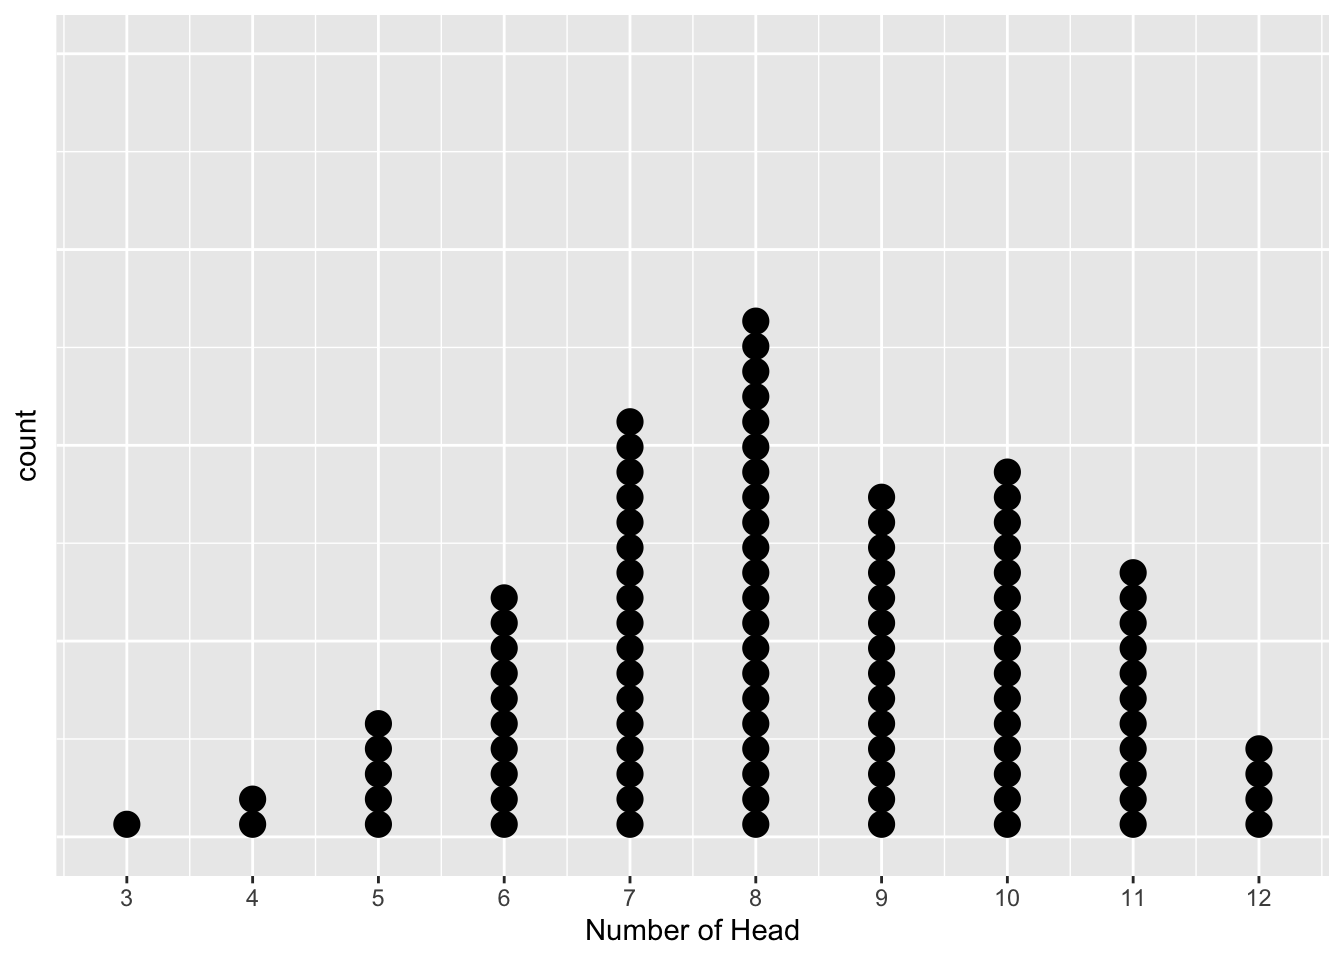
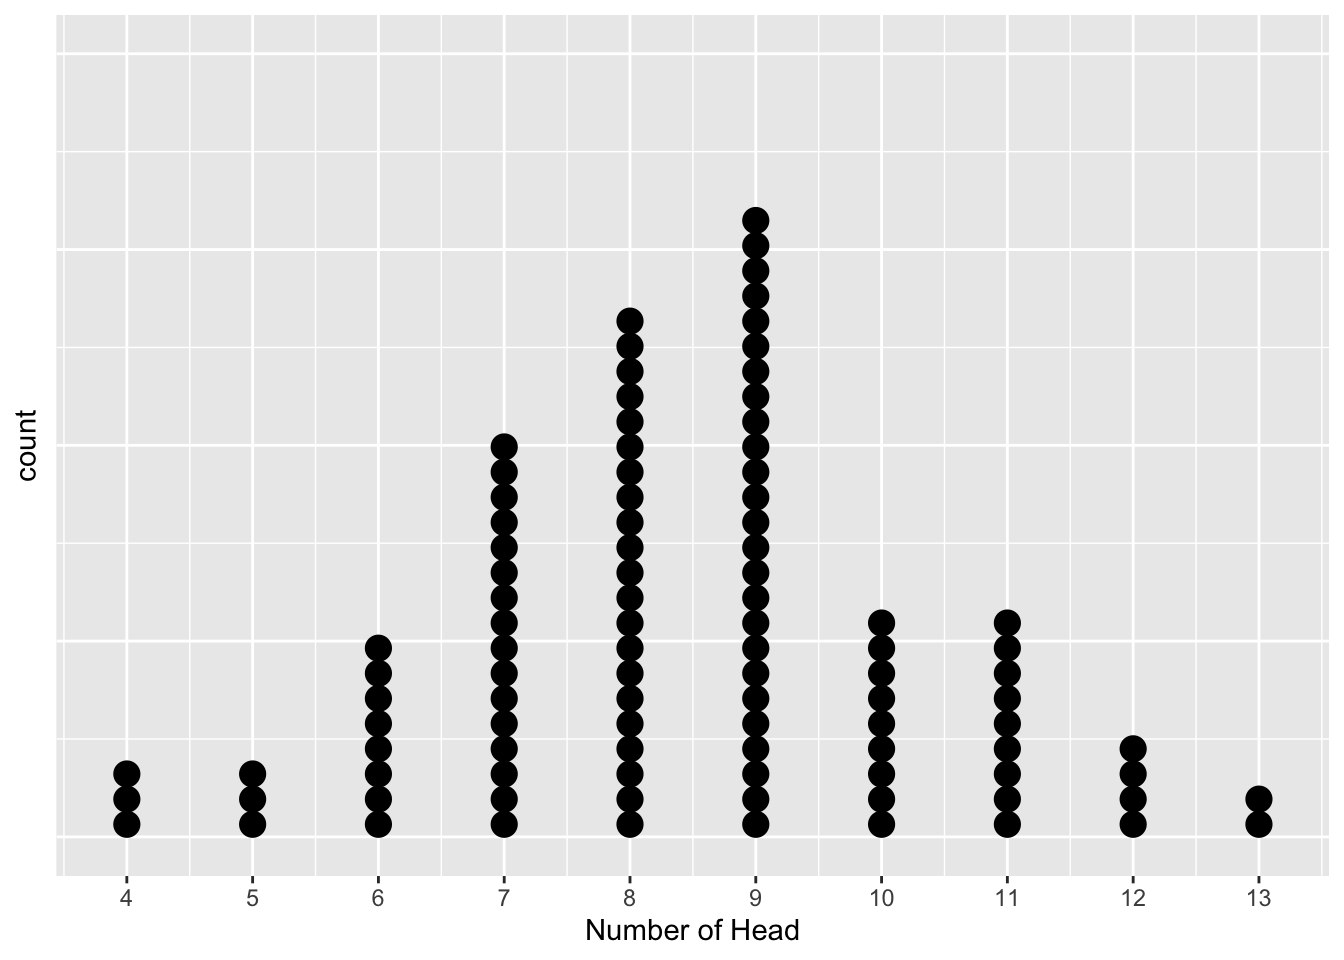
update binomial distribution calculator

diff --git a/docs/index.html b/docs/index.html
@@ -23,7 +23,7 @@
 <meta name="author" content="Nannan Wang" />
 
 
-<meta name="date" content="2022-07-14" />
+<meta name="date" content="2022-07-21" />
 
   <meta name="viewport" content="width=device-width, initial-scale=1" />
   <meta name="apple-mobile-web-app-capable" content="yes" />
@@ -140,6 +140,7 @@ code span.wa { color: #60a0b0; font-weight: bold; font-style: italic; } /* Warni
 <ul>
 <li class="chapter" data-level="1.1" data-path="index.html"><a href="index.html#coin-flipping-simulation"><i class="fa fa-check"></i><b>1.1</b> Coin Flipping Simulation</a></li>
 <li class="chapter" data-level="1.2" data-path="index.html"><a href="index.html#doris-buzz-simulation"><i class="fa fa-check"></i><b>1.2</b> Doris &amp; Buzz Simulation</a></li>
+<li class="chapter" data-level="1.3" data-path="index.html"><a href="index.html#binomial-distribution-calculator"><i class="fa fa-check"></i><b>1.3</b> Binomial Distribution Calculator</a></li>
 </ul></li>
 <li class="chapter" data-level="2" data-path="hypothesis-testing.html"><a href="hypothesis-testing.html"><i class="fa fa-check"></i><b>2</b> Hypothesis Testing</a></li>
 <li class="chapter" data-level="3" data-path="confidence-interval.html"><a href="confidence-interval.html"><i class="fa fa-check"></i><b>3</b> Confidence Interval</a></li>
@@ -167,7 +168,7 @@ code span.wa { color: #60a0b0; font-weight: bold; font-style: italic; } /* Warni
 <div id="header">
 <h1 class="title">TLTE-889 Project</h1>
 <p class="author"><em>Nannan Wang</em></p>
-<p class="date"><em>2022-07-14</em></p>
+<p class="date"><em>2022-07-21</em></p>
 </div>
 <div id="chance-model" class="section level1 hasAnchor" number="1">
 <h1><span class="header-section-number">Chapter 1</span> Chance Model<a href="index.html#chance-model" class="anchor-section" aria-label="Anchor link to header"></a></h1>
@@ -181,11 +182,11 @@ code span.wa { color: #60a0b0; font-weight: bold; font-style: italic; } /* Warni
 <span id="cb1-6"><a href="index.html#cb1-6" aria-hidden="true" tabindex="-1"></a>}</span>
 <span id="cb1-7"><a href="index.html#cb1-7" aria-hidden="true" tabindex="-1"></a><span class="co"># Each value in the resultContainer represents result from flipping the coin each time, since one repetition contains 10 trails, there are 10 values in resultContainer. </span></span>
 <span id="cb1-8"><a href="index.html#cb1-8" aria-hidden="true" tabindex="-1"></a>resultContainer</span></code></pre></div>
-<pre><code>##  [1] 1 0 1 1 0 1 1 0 1 0</code></pre>
+<pre><code>##  [1] 1 0 1 0 0 0 0 0 0 1</code></pre>
 <div class="sourceCode" id="cb3"><pre class="sourceCode r"><code class="sourceCode r"><span id="cb3-1"><a href="index.html#cb3-1" aria-hidden="true" tabindex="-1"></a><span class="co"># sumHead represents the total number of head obtained from flipping the coin 10 times. </span></span>
 <span id="cb3-2"><a href="index.html#cb3-2" aria-hidden="true" tabindex="-1"></a>sumHead <span class="ot">&lt;-</span> <span class="fu">sum</span>(resultContainer)</span>
 <span id="cb3-3"><a href="index.html#cb3-3" aria-hidden="true" tabindex="-1"></a>sumHead</span></code></pre></div>
-<pre><code>## [1] 6</code></pre>
+<pre><code>## [1] 3</code></pre>
 </div>
 <div id="doris-buzz-simulation" class="section level2 hasAnchor" number="1.2">
 <h2><span class="header-section-number">1.2</span> Doris &amp; Buzz Simulation<a href="index.html#doris-buzz-simulation" class="anchor-section" aria-label="Anchor link to header"></a></h2>
@@ -208,11 +209,11 @@ code span.wa { color: #60a0b0; font-weight: bold; font-style: italic; } /* Warni
 <span id="cb5-17"><a href="index.html#cb5-17" aria-hidden="true" tabindex="-1"></a><span class="fu">head</span>(simulatedDisM)</span></code></pre></div>
 <pre><code>##   repLabel dis100Rep
 ## 1        1         7
-## 2        2         7
-## 3        3         3
-## 4        4        10
-## 5        5         8
-## 6        6        11</code></pre>
+## 2        2         8
+## 3        3         8
+## 4        4         8
+## 5        5        11
+## 6        6         4</code></pre>
 <div class="sourceCode" id="cb7"><pre class="sourceCode r"><code class="sourceCode r"><span id="cb7-1"><a href="index.html#cb7-1" aria-hidden="true" tabindex="-1"></a><span class="co"># plot the resulted dataframe in a dot plot. </span></span>
 <span id="cb7-2"><a href="index.html#cb7-2" aria-hidden="true" tabindex="-1"></a><span class="fu">library</span>(ggplot2)</span>
 <span id="cb7-3"><a href="index.html#cb7-3" aria-hidden="true" tabindex="-1"></a><span class="fu">ggplot</span>(simulatedDisM, <span class="fu">aes</span>(<span class="at">x =</span> dis100Rep)) <span class="sc">+</span></span>
@@ -224,6 +225,26 @@ code span.wa { color: #60a0b0; font-weight: bold; font-style: italic; } /* Warni
 <span id="cb7-9"><a href="index.html#cb7-9" aria-hidden="true" tabindex="-1"></a>  <span class="fu">scale_x_continuous</span>(<span class="at">breaks=</span><span class="fu">c</span>(<span class="dv">1</span><span class="sc">:</span><span class="dv">16</span>))<span class="sc">+</span></span>
 <span id="cb7-10"><a href="index.html#cb7-10" aria-hidden="true" tabindex="-1"></a>  <span class="fu">labs</span>(<span class="at">x=</span><span class="st">&quot;Number of Head&quot;</span>)</span></code></pre></div>
 <p><img src="bookdownproj_files/figure-html/unnamed-chunk-2-1.png" width="672" /></p>
+</div>
+<div id="binomial-distribution-calculator" class="section level2 hasAnchor" number="1.3">
+<h2><span class="header-section-number">1.3</span> Binomial Distribution Calculator<a href="index.html#binomial-distribution-calculator" class="anchor-section" aria-label="Anchor link to header"></a></h2>
+<div class="sourceCode" id="cb8"><pre class="sourceCode r"><code class="sourceCode r"><span id="cb8-1"><a href="index.html#cb8-1" aria-hidden="true" tabindex="-1"></a><span class="co"># This example illustrate how to calculate the probablibity of obtaining 0 success from flipping a coin 10 times</span></span>
+<span id="cb8-2"><a href="index.html#cb8-2" aria-hidden="true" tabindex="-1"></a>numberTrial <span class="ot">&lt;-</span> <span class="dv">10</span></span>
+<span id="cb8-3"><a href="index.html#cb8-3" aria-hidden="true" tabindex="-1"></a>numberSuccess <span class="ot">&lt;-</span> <span class="dv">0</span></span>
+<span id="cb8-4"><a href="index.html#cb8-4" aria-hidden="true" tabindex="-1"></a>successProb <span class="ot">&lt;-</span> <span class="fl">0.5</span></span>
+<span id="cb8-5"><a href="index.html#cb8-5" aria-hidden="true" tabindex="-1"></a>probability <span class="ot">&lt;-</span> <span class="cf">function</span>(n, x) {</span>
+<span id="cb8-6"><a href="index.html#cb8-6" aria-hidden="true" tabindex="-1"></a>    <span class="fu">factorial</span>(n) <span class="sc">/</span> <span class="fu">factorial</span>(n<span class="sc">-</span>x) <span class="sc">/</span> <span class="fu">factorial</span>(x)<span class="sc">*</span><span class="fl">0.5</span><span class="sc">^</span>x<span class="sc">*</span><span class="fl">0.5</span><span class="sc">^</span>(n<span class="sc">-</span>x)</span>
+<span id="cb8-7"><a href="index.html#cb8-7" aria-hidden="true" tabindex="-1"></a>  }</span>
+<span id="cb8-8"><a href="index.html#cb8-8" aria-hidden="true" tabindex="-1"></a>prob0 <span class="ot">&lt;-</span> <span class="fu">probability</span>(numberTrial,numberSuccess)</span>
+<span id="cb8-9"><a href="index.html#cb8-9" aria-hidden="true" tabindex="-1"></a></span>
+<span id="cb8-10"><a href="index.html#cb8-10" aria-hidden="true" tabindex="-1"></a><span class="co"># Plot the distribution of getting number of heads from flipping a coin 10 times</span></span>
+<span id="cb8-11"><a href="index.html#cb8-11" aria-hidden="true" tabindex="-1"></a>distvector <span class="ot">&lt;-</span> <span class="fu">vector</span>(<span class="st">&#39;numeric&#39;</span>,<span class="at">length =</span> <span class="dv">10</span>)</span>
+<span id="cb8-12"><a href="index.html#cb8-12" aria-hidden="true" tabindex="-1"></a><span class="cf">for</span> (i <span class="cf">in</span> <span class="dv">1</span><span class="sc">:</span><span class="dv">10</span>){</span>
+<span id="cb8-13"><a href="index.html#cb8-13" aria-hidden="true" tabindex="-1"></a>  distvector[i] <span class="ot">&lt;-</span> <span class="fu">probability</span>(<span class="dv">10</span>,i)</span>
+<span id="cb8-14"><a href="index.html#cb8-14" aria-hidden="true" tabindex="-1"></a>}</span>
+<span id="cb8-15"><a href="index.html#cb8-15" aria-hidden="true" tabindex="-1"></a>dis <span class="ot">&lt;-</span> <span class="fu">as.data.frame</span>(<span class="fu">cbind</span>(<span class="fu">seq</span>(<span class="dv">1</span>,<span class="dv">10</span>),distvector))</span>
+<span id="cb8-16"><a href="index.html#cb8-16" aria-hidden="true" tabindex="-1"></a><span class="fu">barplot</span>(dis<span class="sc">$</span>distvector,<span class="at">ylim=</span><span class="fu">c</span>(<span class="dv">0</span>,<span class="fl">0.3</span>),<span class="at">names.arg =</span> dis<span class="sc">$</span>V1)</span></code></pre></div>
+<p><img src="bookdownproj_files/figure-html/unnamed-chunk-3-1.png" width="672" /></p>
 
 </div>
 </div>

diff --git a/docs/hypothesis-testing.html b/docs/hypothesis-testing.html
@@ -23,7 +23,7 @@
 <meta name="author" content="Nannan Wang" />
 
 
-<meta name="date" content="2022-07-14" />
+<meta name="date" content="2022-07-21" />
 
   <meta name="viewport" content="width=device-width, initial-scale=1" />
   <meta name="apple-mobile-web-app-capable" content="yes" />
@@ -54,70 +54,6 @@
 <script src="libs/anchor-sections-1.1.0/anchor-sections.js"></script>
 
 
-<style type="text/css">
-pre > code.sourceCode { white-space: pre; position: relative; }
-pre > code.sourceCode > span { display: inline-block; line-height: 1.25; }
-pre > code.sourceCode > span:empty { height: 1.2em; }
-.sourceCode { overflow: visible; }
-code.sourceCode > span { color: inherit; text-decoration: inherit; }
-pre.sourceCode { margin: 0; }
-@media screen {
-div.sourceCode { overflow: auto; }
-}
-@media print {
-pre > code.sourceCode { white-space: pre-wrap; }
-pre > code.sourceCode > span { text-indent: -5em; padding-left: 5em; }
-}
-pre.numberSource code
-  { counter-reset: source-line 0; }
-pre.numberSource code > span
-  { position: relative; left: -4em; counter-increment: source-line; }
-pre.numberSource code > span > a:first-child::before
-  { content: counter(source-line);
-    position: relative; left: -1em; text-align: right; vertical-align: baseline;
-    border: none; display: inline-block;
-    -webkit-touch-callout: none; -webkit-user-select: none;
-    -khtml-user-select: none; -moz-user-select: none;
-    -ms-user-select: none; user-select: none;
-    padding: 0 4px; width: 4em;
-    color: #aaaaaa;
-  }
-pre.numberSource { margin-left: 3em; border-left: 1px solid #aaaaaa;  padding-left: 4px; }
-div.sourceCode
-  {   }
-@media screen {
-pre > code.sourceCode > span > a:first-child::before { text-decoration: underline; }
-}
-code span.al { color: #ff0000; font-weight: bold; } /* Alert */
-code span.an { color: #60a0b0; font-weight: bold; font-style: italic; } /* Annotation */
-code span.at { color: #7d9029; } /* Attribute */
-code span.bn { color: #40a070; } /* BaseN */
-code span.bu { } /* BuiltIn */
-code span.cf { color: #007020; font-weight: bold; } /* ControlFlow */
-code span.ch { color: #4070a0; } /* Char */
-code span.cn { color: #880000; } /* Constant */
-code span.co { color: #60a0b0; font-style: italic; } /* Comment */
-code span.cv { color: #60a0b0; font-weight: bold; font-style: italic; } /* CommentVar */
-code span.do { color: #ba2121; font-style: italic; } /* Documentation */
-code span.dt { color: #902000; } /* DataType */
-code span.dv { color: #40a070; } /* DecVal */
-code span.er { color: #ff0000; font-weight: bold; } /* Error */
-code span.ex { } /* Extension */
-code span.fl { color: #40a070; } /* Float */
-code span.fu { color: #06287e; } /* Function */
-code span.im { } /* Import */
-code span.in { color: #60a0b0; font-weight: bold; font-style: italic; } /* Information */
-code span.kw { color: #007020; font-weight: bold; } /* Keyword */
-code span.op { color: #666666; } /* Operator */
-code span.ot { color: #007020; } /* Other */
-code span.pp { color: #bc7a00; } /* Preprocessor */
-code span.sc { color: #4070a0; } /* SpecialChar */
-code span.ss { color: #bb6688; } /* SpecialString */
-code span.st { color: #4070a0; } /* String */
-code span.va { color: #19177c; } /* Variable */
-code span.vs { color: #4070a0; } /* VerbatimString */
-code span.wa { color: #60a0b0; font-weight: bold; font-style: italic; } /* Warning */
-</style>
 
 
 <link rel="stylesheet" href="style.css" type="text/css" />

diff --git a/docs/404.html b/docs/404.html
@@ -23,7 +23,7 @@
 <meta name="author" content="Nannan Wang" />
 
 
-<meta name="date" content="2022-07-14" />
+<meta name="date" content="2022-07-21" />
 
   <meta name="viewport" content="width=device-width, initial-scale=1" />
   <meta name="apple-mobile-web-app-capable" content="yes" />
@@ -140,6 +140,7 @@ code span.wa { color: #60a0b0; font-weight: bold; font-style: italic; } /* Warni
 <ul>
 <li class="chapter" data-level="1.1" data-path="index.html"><a href="index.html#coin-flipping-simulation"><i class="fa fa-check"></i><b>1.1</b> Coin Flipping Simulation</a></li>
 <li class="chapter" data-level="1.2" data-path="index.html"><a href="index.html#doris-buzz-simulation"><i class="fa fa-check"></i><b>1.2</b> Doris &amp; Buzz Simulation</a></li>
+<li class="chapter" data-level="1.3" data-path="index.html"><a href="index.html#binomial-distribution-calculator"><i class="fa fa-check"></i><b>1.3</b> Binomial Distribution Calculator</a></li>
 </ul></li>
 <li class="chapter" data-level="2" data-path="hypothesis-testing.html"><a href="hypothesis-testing.html"><i class="fa fa-check"></i><b>2</b> Hypothesis Testing</a></li>
 <li class="chapter" data-level="3" data-path="confidence-interval.html"><a href="confidence-interval.html"><i class="fa fa-check"></i><b>3</b> Confidence Interval</a></li>

diff --git a/docs/confidence-interval.html b/docs/confidence-interval.html
@@ -23,7 +23,7 @@
 <meta name="author" content="Nannan Wang" />
 
 
-<meta name="date" content="2022-07-14" />
+<meta name="date" content="2022-07-20" />
 
   <meta name="viewport" content="width=device-width, initial-scale=1" />
   <meta name="apple-mobile-web-app-capable" content="yes" />

diff --git a/docs/t-test.html b/docs/t-test.html
@@ -23,7 +23,7 @@
 <meta name="author" content="Nannan Wang" />
 
 
-<meta name="date" content="2022-07-14" />
+<meta name="date" content="2022-07-20" />
 
   <meta name="viewport" content="width=device-width, initial-scale=1" />
   <meta name="apple-mobile-web-app-capable" content="yes" />

diff --git a/docs/z-test.html b/docs/z-test.html
@@ -23,7 +23,7 @@
 <meta name="author" content="Nannan Wang" />
 
 
-<meta name="date" content="2022-07-14" />
+<meta name="date" content="2022-07-20" />
 
   <meta name="viewport" content="width=device-width, initial-scale=1" />
   <meta name="apple-mobile-web-app-capable" content="yes" />
